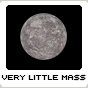
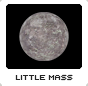
bug fixes & sprite changes

diff --git a/main.py b/main.py
@@ -140,6 +140,9 @@ class Game(object):
             elif evt.type == KEYDOWN:
                 if evt.key == K_ESCAPE and not self.bar.itemsTab.open and self.bar.grabbed == None:
                     self.bar.menuWidget.dropped()
+                elif evt.key == K_ESCAPE and self.bar.grabbed == None:
+                    self.bar.itemsTab.dropped()
+                    self.bar.menuWidget.dropped()
                                         
             elif evt.type == MOUSEBUTTONDOWN:
                 print pos

diff --git a/user_items.py b/user_items.py
@@ -90,4 +90,4 @@ class UserPlanet(Sprite):
         elif self.kind == 2:
             self.bar.item_two_reset()
         elif self.kind == 3:
-            self.bar.item_two_reset()
+            self.bar.item_three_reset()
